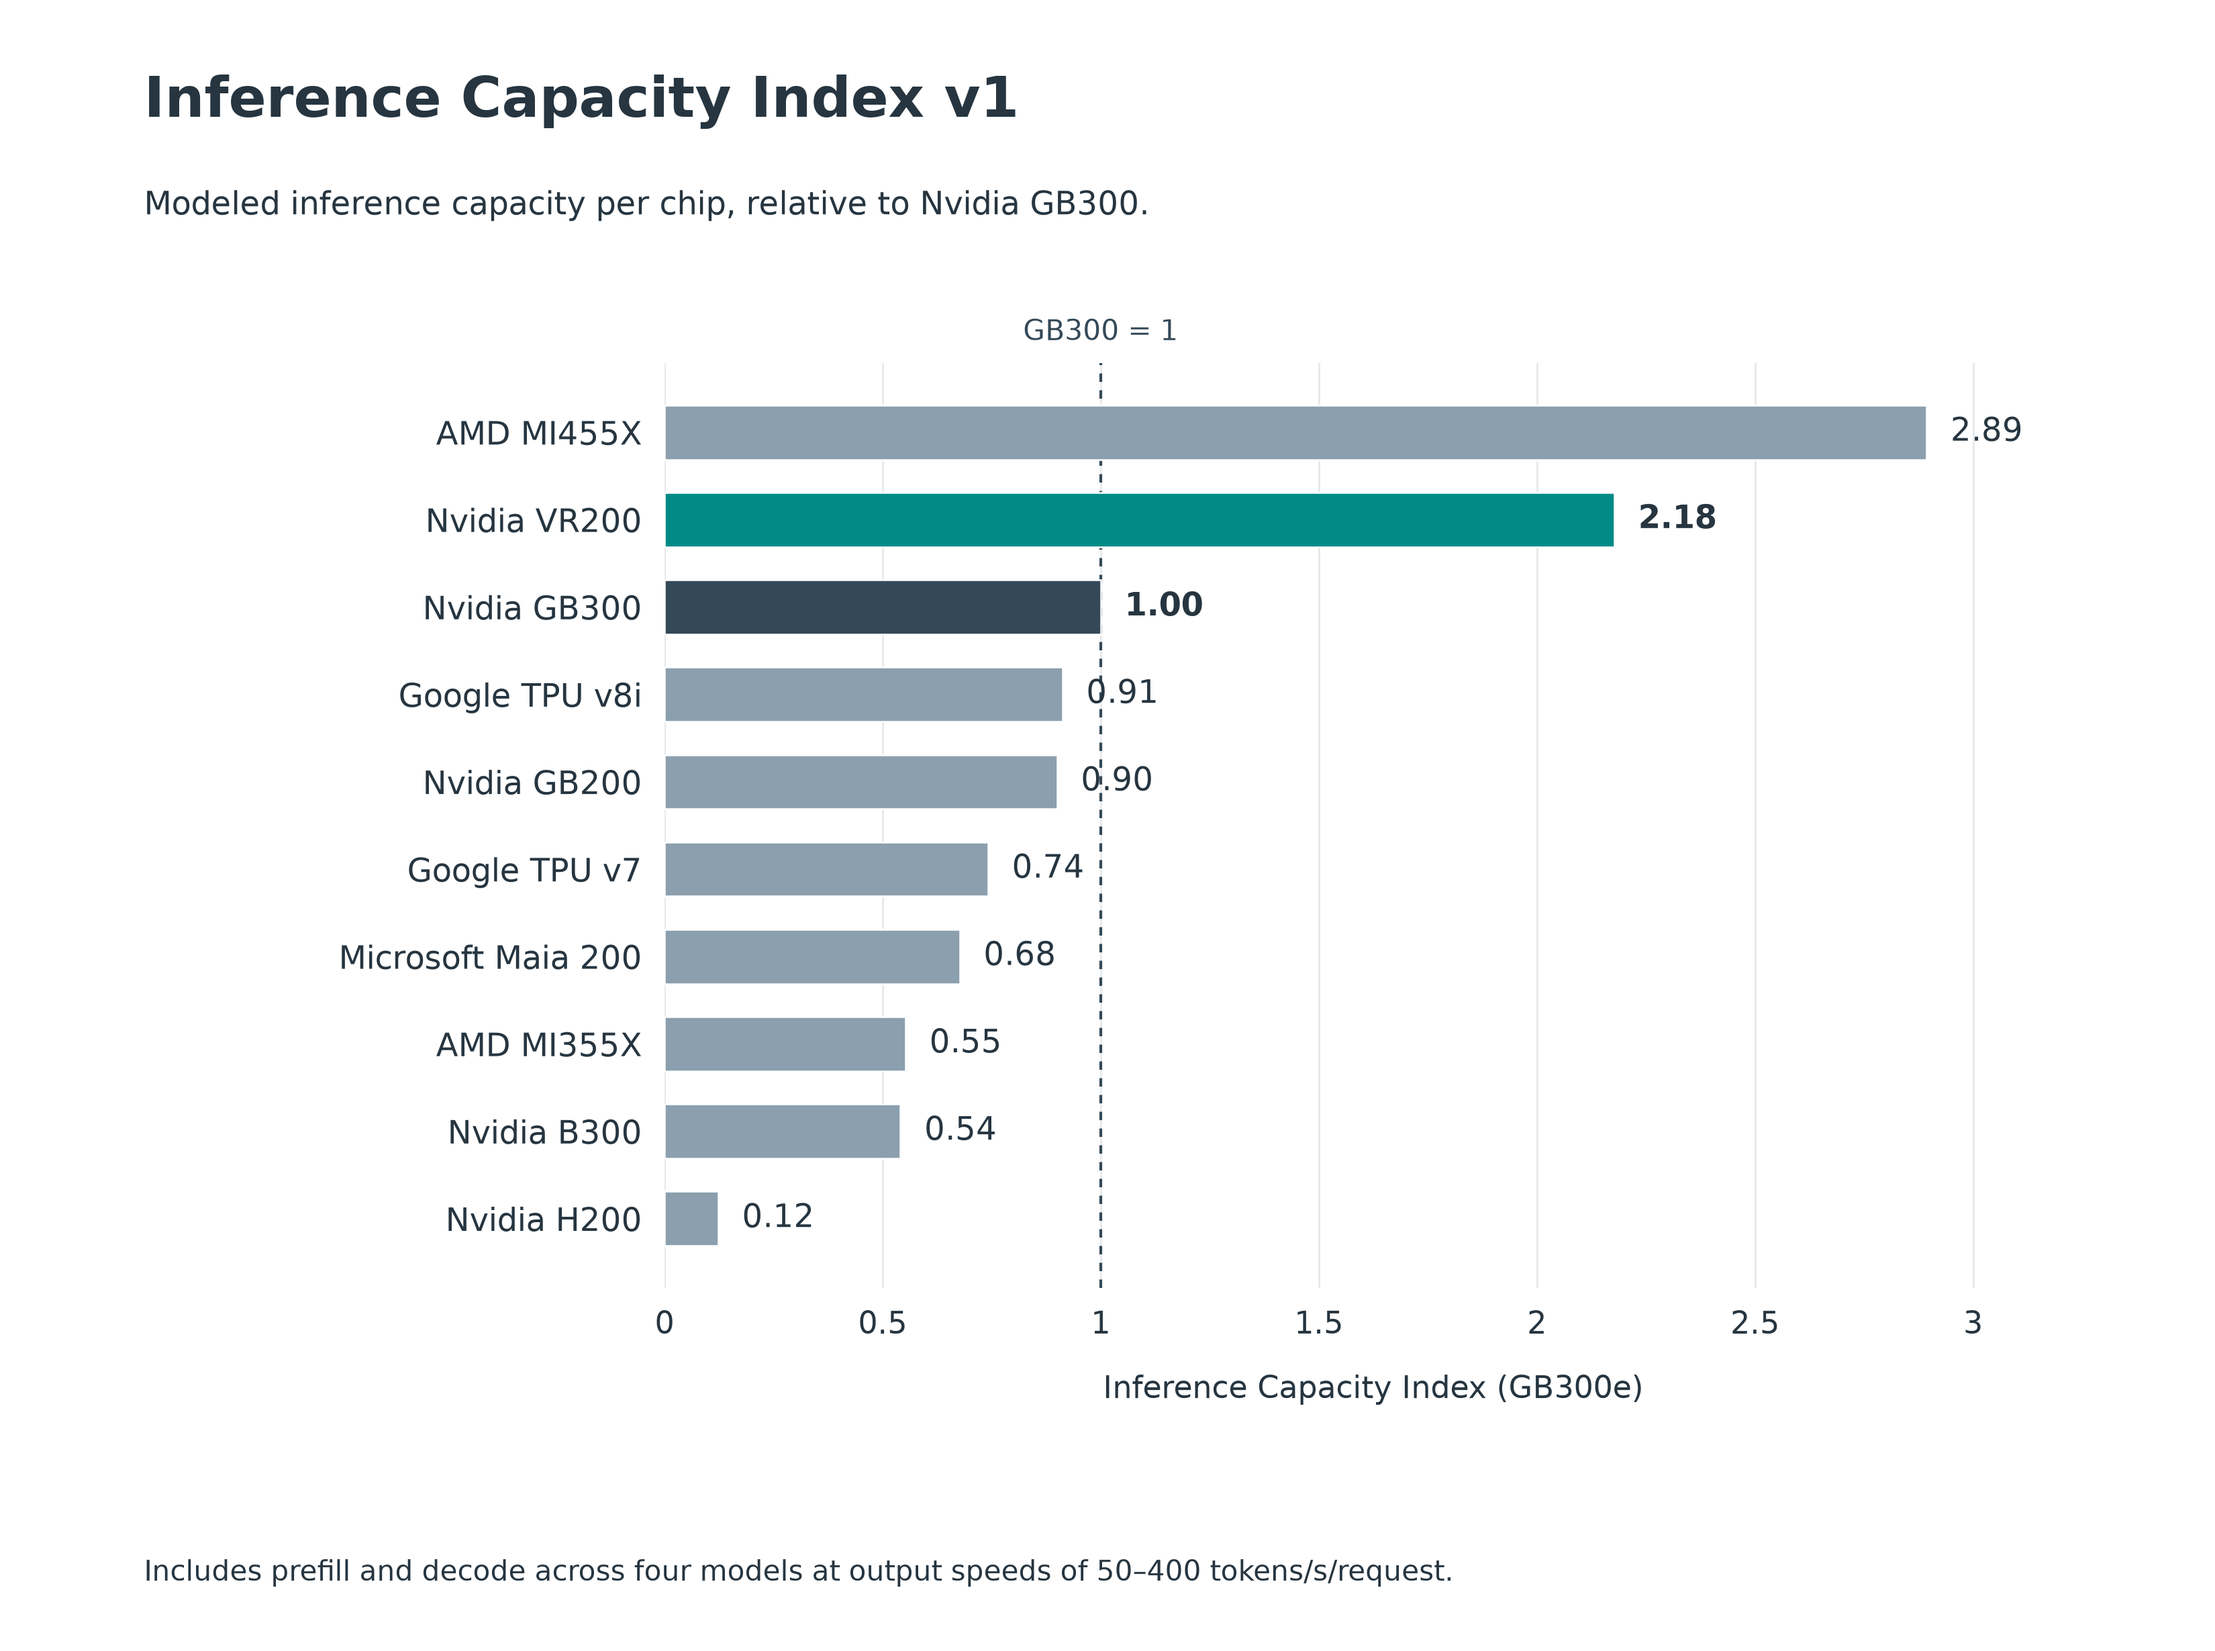
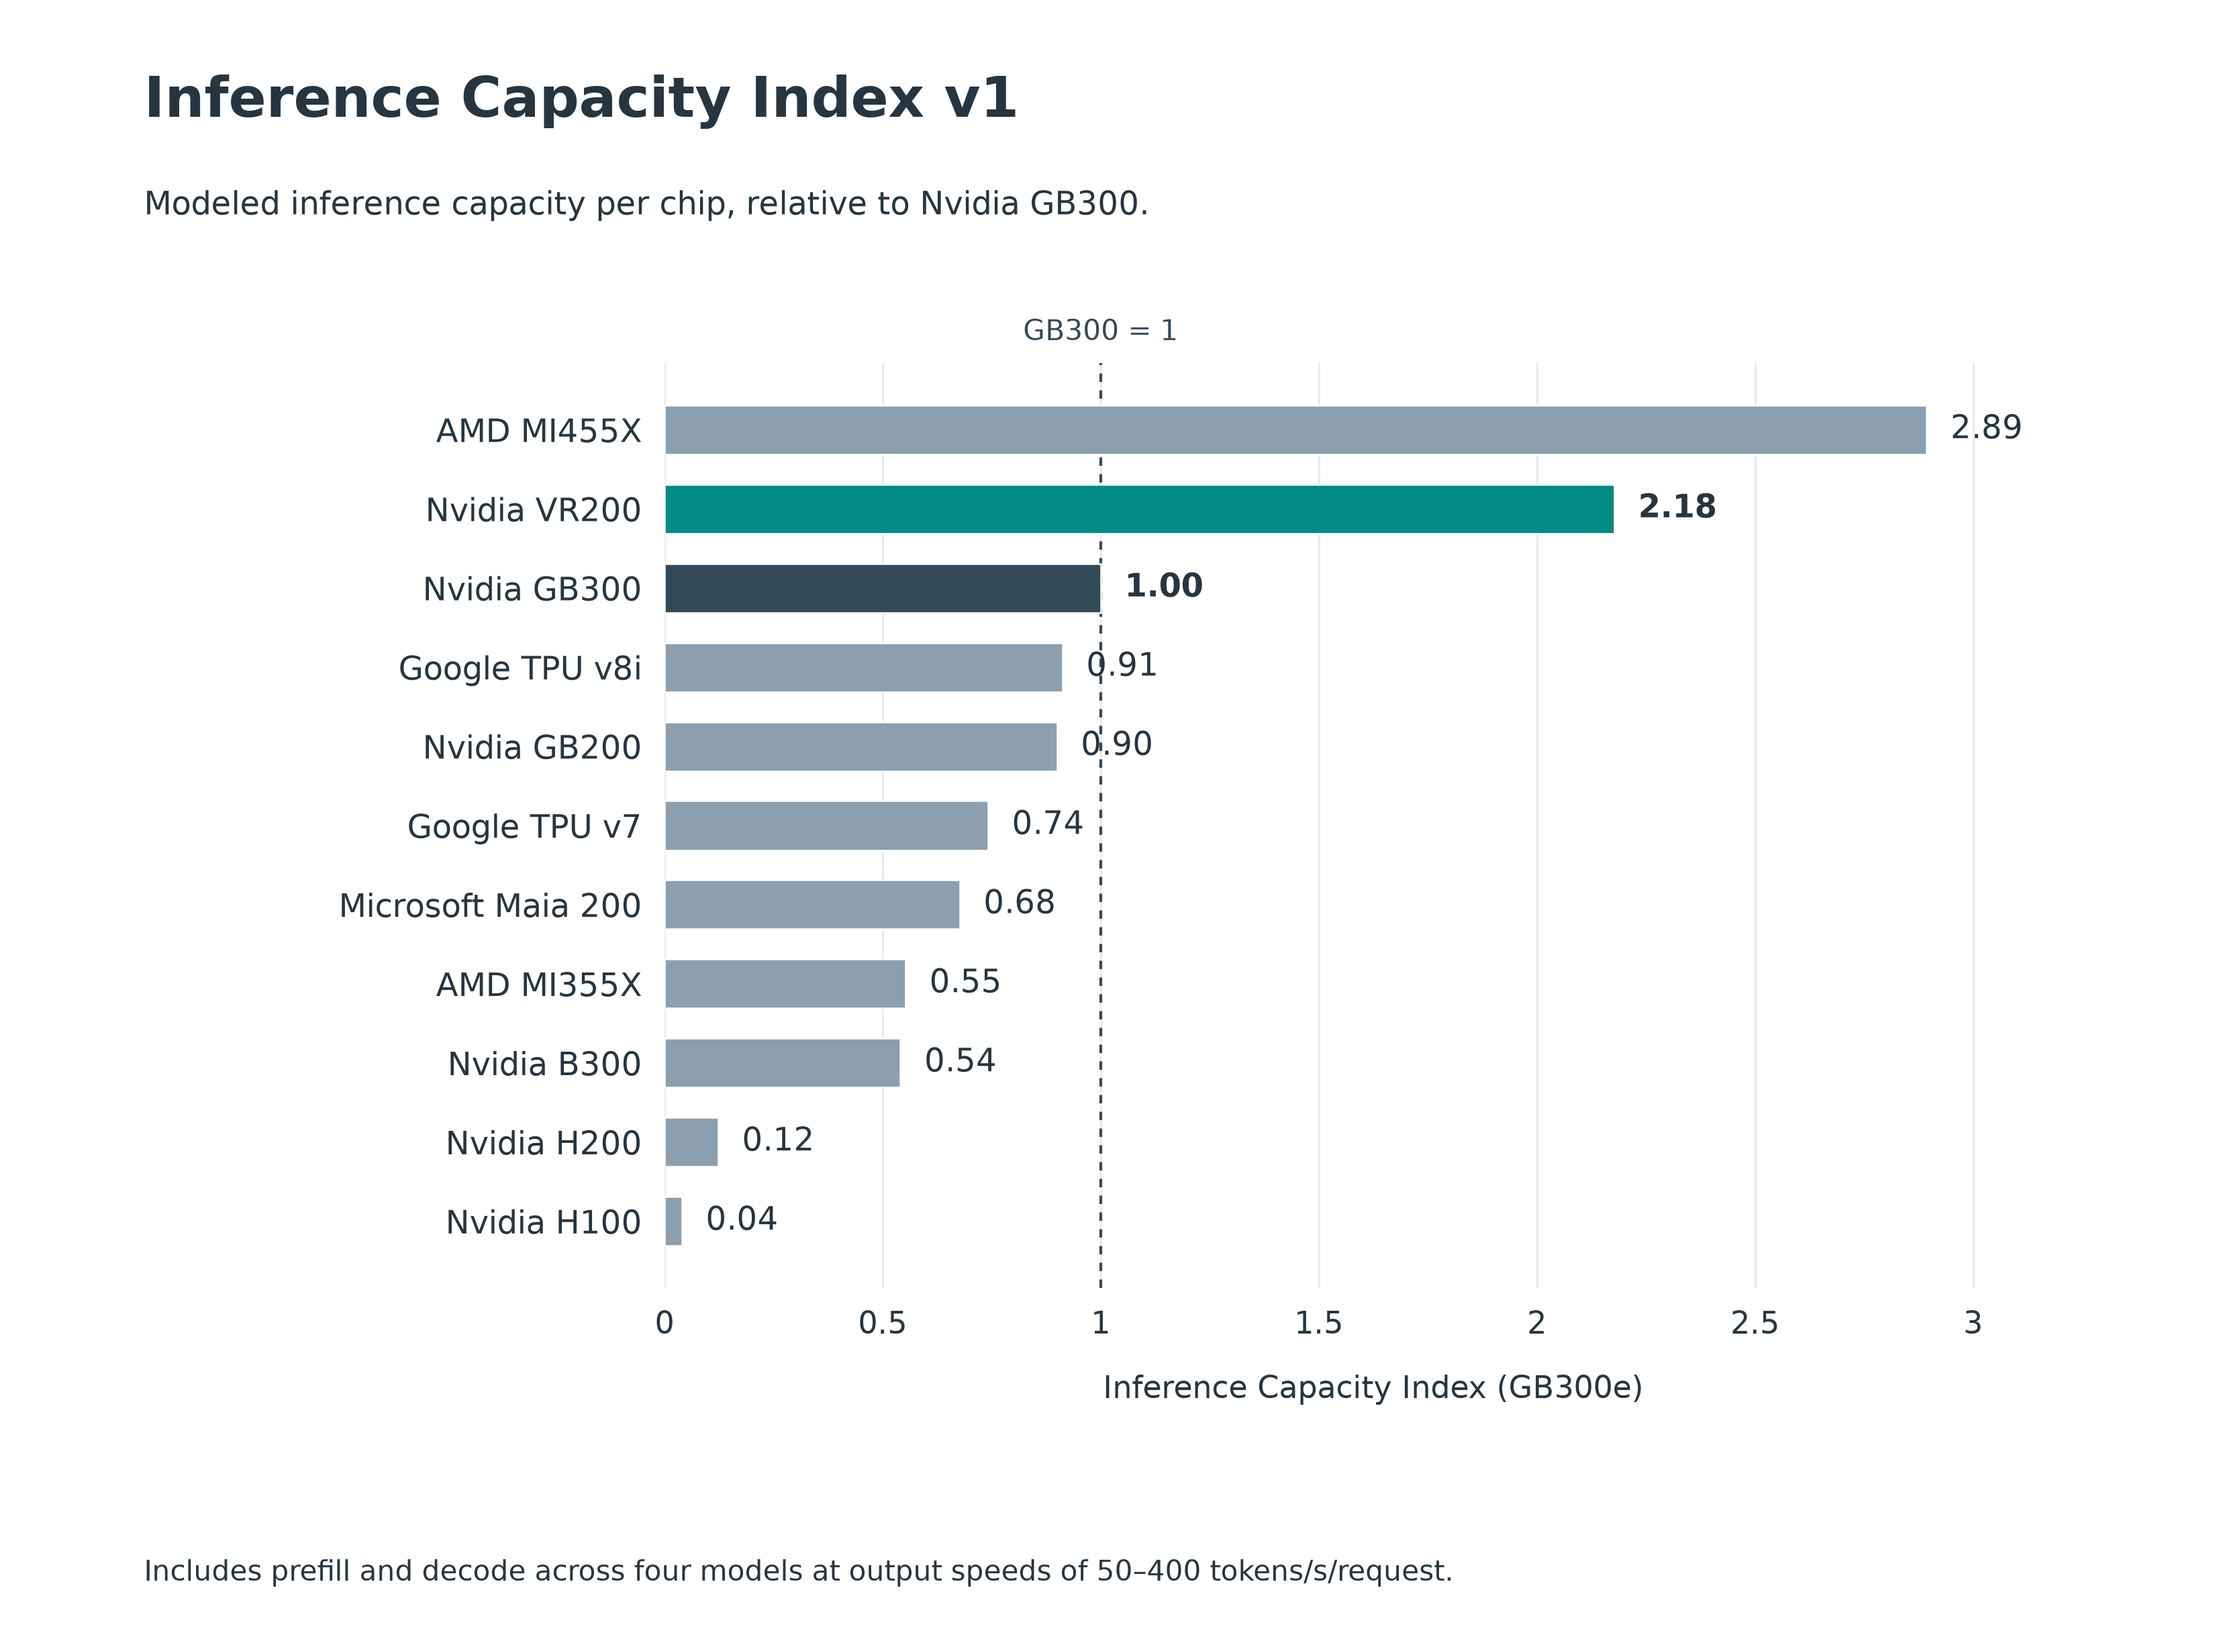
Include H100 in the report accelerator comparison

Changed region(s): [[0.1561, 0.2472, 0.8427, 0.7724], [0.8739, 0.2472, 0.9052, 0.278]]

diff --git a/studies/report_figures.py b/studies/report_figures.py
@@ -182,6 +182,7 @@ SELECTION = {
     'MI355X · 400G': 'AMD MI355X',
     'B300 · 800G': 'Nvidia B300',
     'H200 SXM · FP8 · 400G': 'Nvidia H200',
+    'H100 SXM · FP8 · 400G': 'Nvidia H100',
 }
 rows = []
 for q in csv.DictReader(SOURCE.open()):
@@ -192,7 +193,7 @@ for q in csv.DictReader(SOURCE.open()):
                      hardware_profile=q['hardware'],
                      score_snapshot='2026-10-20'))
 rows.sort(key=lambda q: q['ici_relative_to_gb300'], reverse=True)
-assert len(rows) == 10
+assert len(rows) == 11
 assert next(q['ici_relative_to_gb300'] for q in rows if q['chip']=='Nvidia GB300') == 1
 
 fig, ax = plt.subplots(figsize=(11,8.2))

diff --git a/docs/report/README.md b/docs/report/README.md
@@ -48,7 +48,7 @@ relative to the repository root. The renderer does not modify frozen inputs.
 
 | Report figure | Inputs | CSV in `results/report-figures/` | Image stem in the same directory |
 | --- | --- | --- | --- |
-| 1: ten selected accelerators | Base `reference/2026-10-15/` plus `reference/2026-10-20-rubin/`; ten named profiles selected from rebuilt index | `figure_1_selected_chips.csv` | `figure_1_selected_chips` |
+| 1: eleven selected accelerators | Base `reference/2026-10-15/` plus `reference/2026-10-20-rubin/`; eleven named profiles selected from rebuilt index | `figure_1_selected_chips.csv` | `figure_1_selected_chips` |
 | 2: concurrency/output-speed tradeoff | `docs/report/inputs/kimi_gb300_fixed_layout.csv`, its provenance, unchanged GB300 profile | `figure_2_decode_tradeoff.csv` | `figure_2_decode_tradeoff` |
 | 3: Kimi area comparison | Same revised snapshot as Figure 1; Kimi decode frontiers and optimized prefill rates | `figure_3_capacity_curves.csv` | `figure_3_model_areas` |
 | 4: averaging models | Exact per-model log areas from the same inputs as Figure 3 | `figure_4_model_ratios.csv` | `figure_4_model_average` |
@@ -73,7 +73,7 @@ release, archive the chart's exact public observations and metadata first.
 
 ![Selected accelerator ICI scores](figures/figure_1_selected_chips.png)
 
-*Figure 1. Modeled inference capacity for ten selected chips, in GB300 equivalents.*
+*Figure 1. Modeled inference capacity for eleven selected chips, in GB300 equivalents.*
 
 ![More requests slow output for each request](figures/figure_2_decode_tradeoff.png)
 
